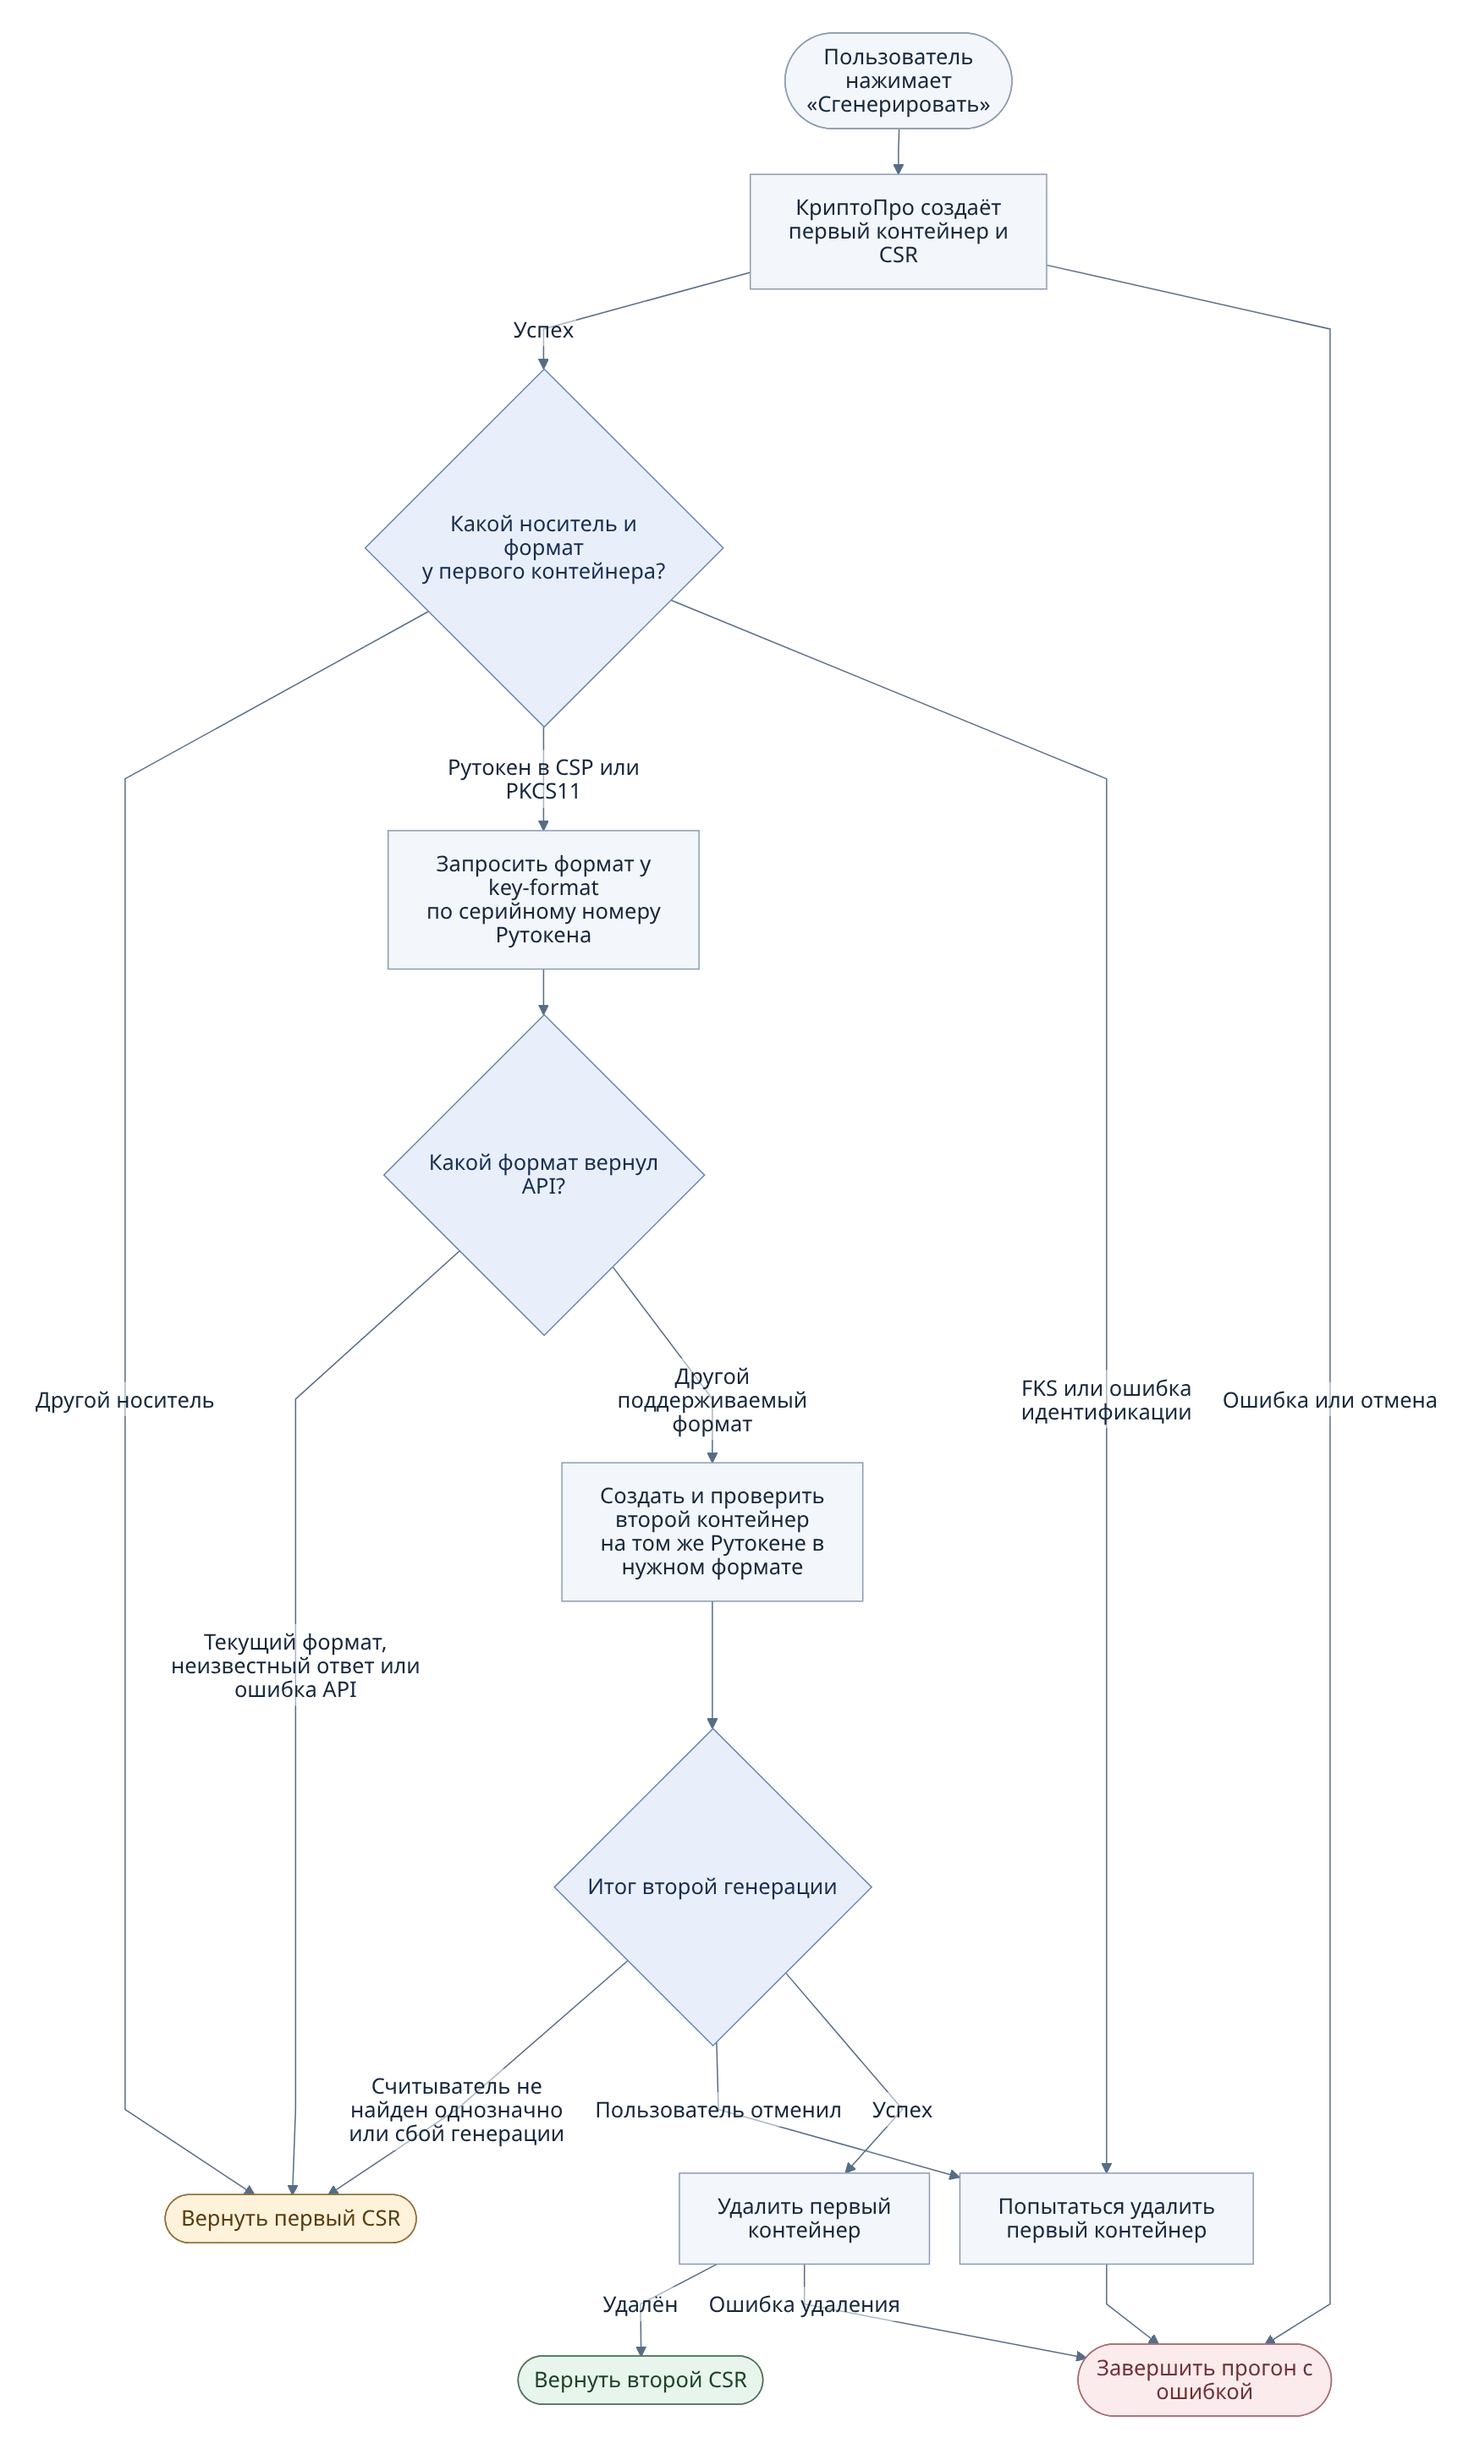
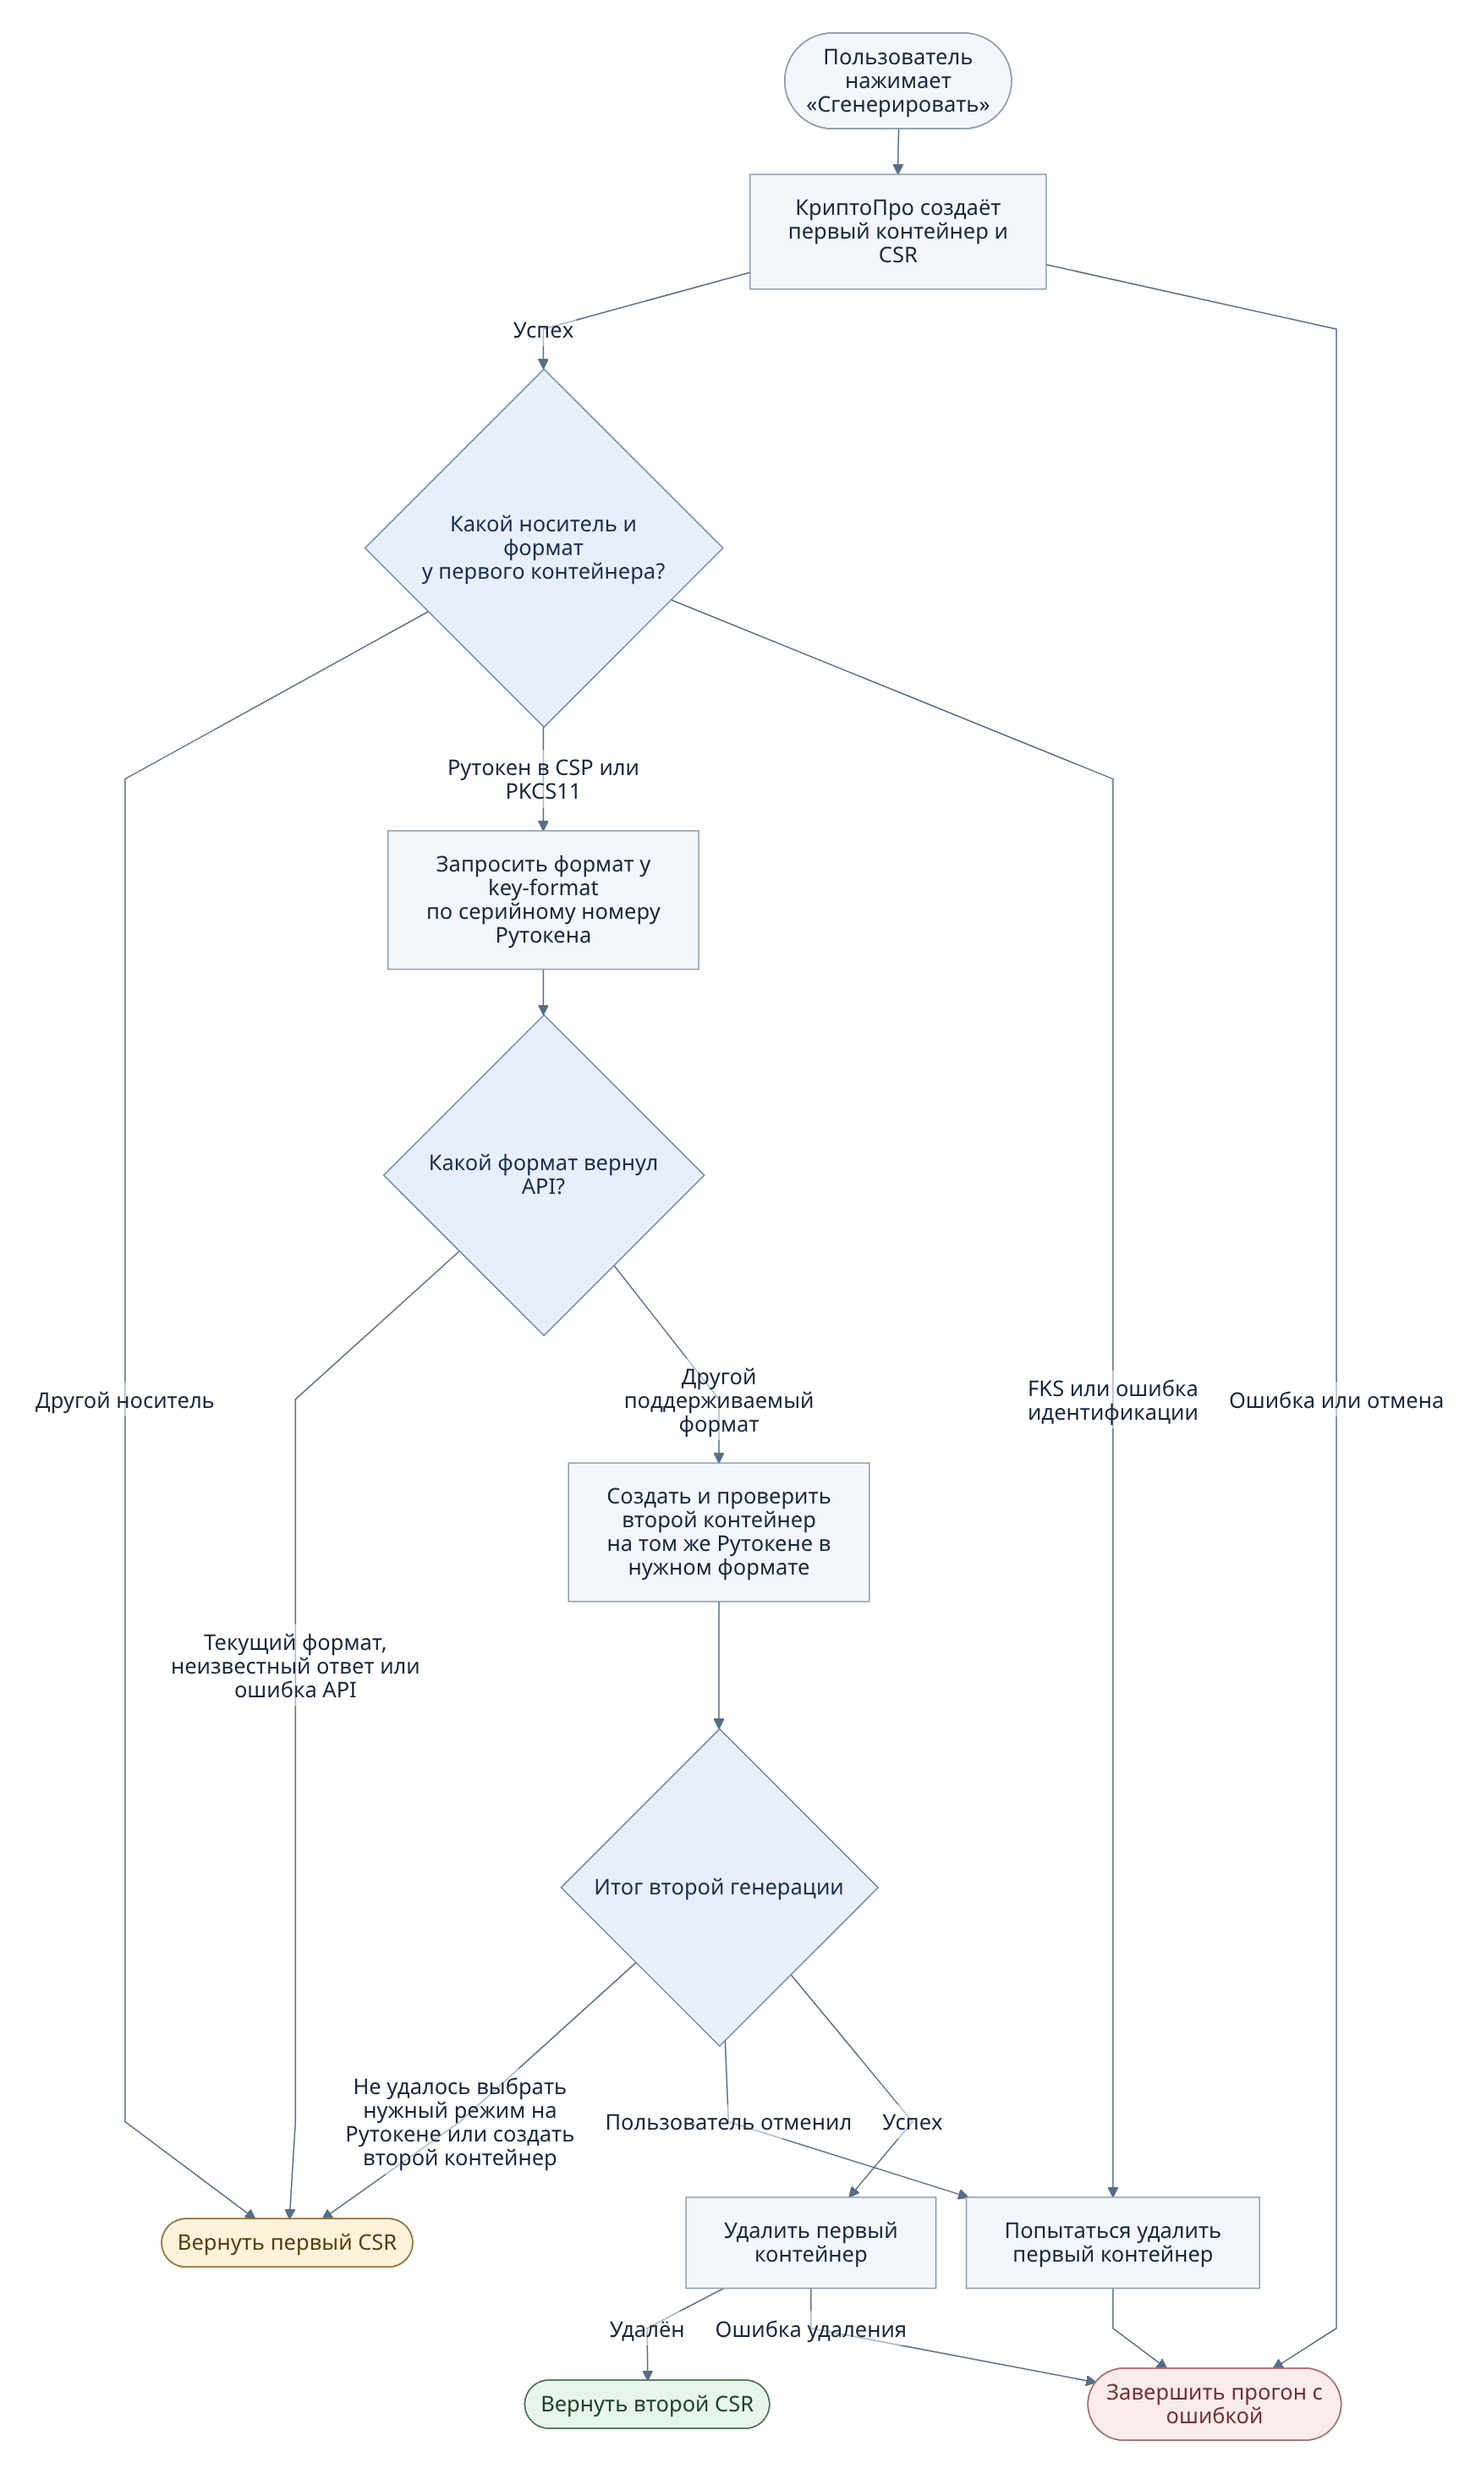
Clarify the reader selection fallback in logs and the flowchart

diff --git a/reissue/index.html b/reissue/index.html
@@ -5,7 +5,7 @@
     <meta name="viewport" content="width=device-width, initial-scale=1">
     <title>Как работает динамическая генерация ключей с получением формата ключа от API</title>
     <script src="https://cryptopro.ru/sites/default/files/products/cades/cadesplugin_api.js"></script>
-    <script type="module" src="./page.mjs?v=25"></script>
+    <script type="module" src="./page.mjs?v=26"></script>
     <style>
         body { font: 1rem system-ui, sans-serif; max-width: 56rem; margin: 2rem auto; padding: 0 1rem; }
         details { margin-top: 1rem; }
@@ -47,10 +47,10 @@
     </form>
     <details>
         <summary>Схема генерации ключей</summary>
-        <p><a href="./reissue-flow.png?v=6">Открыть схему в полном размере</a></p>
+        <p><a href="./reissue-flow.png?v=7">Открыть схему в полном размере</a></p>
         <p class="flow-diagram-hint">Прокрутите схему по горизонтали, чтобы увидеть все ветки.</p>
         <div class="flow-diagram" tabindex="0" role="region" aria-label="Блок-схема динамической генерации ключей">
-            <img src="./reissue-flow.png?v=6" width="1742" height="2895" loading="lazy" alt="Блок-схема выбора формата ключа. КриптоПро создаёт первый контейнер. Для Рутокена в режиме CSP или PKCS11 стенд запрашивает формат по серийному номеру. Если API вернул другой поддерживаемый формат, стенд создаёт и проверяет второй контейнер на том же Рутокене. Другой носитель, ошибка API, совпадение формата или сбой второй генерации дают первый CSR. При отмене второй генерации стенд пытается удалить первый контейнер. При успехе стенд удаляет первый контейнер и возвращает второй CSR.">
+            <img src="./reissue-flow.png?v=7" width="1751" height="2924" loading="lazy" alt="Блок-схема выбора формата ключа. КриптоПро создаёт первый контейнер. Для Рутокена в режиме CSP или PKCS11 стенд запрашивает формат по серийному номеру. Если API вернул другой поддерживаемый формат, стенд создаёт и проверяет второй контейнер на том же Рутокене. Если нужный режим выбрать не удалось, второй контейнер создать не удалось, формат совпал, API вернул ошибку или выбран другой носитель, стенд возвращает первый CSR. При отмене второй генерации стенд пытается удалить первый контейнер. При успехе стенд удаляет первый контейнер и возвращает второй CSR.">
         </div>
     </details>
     <h2>Журнал</h2>
